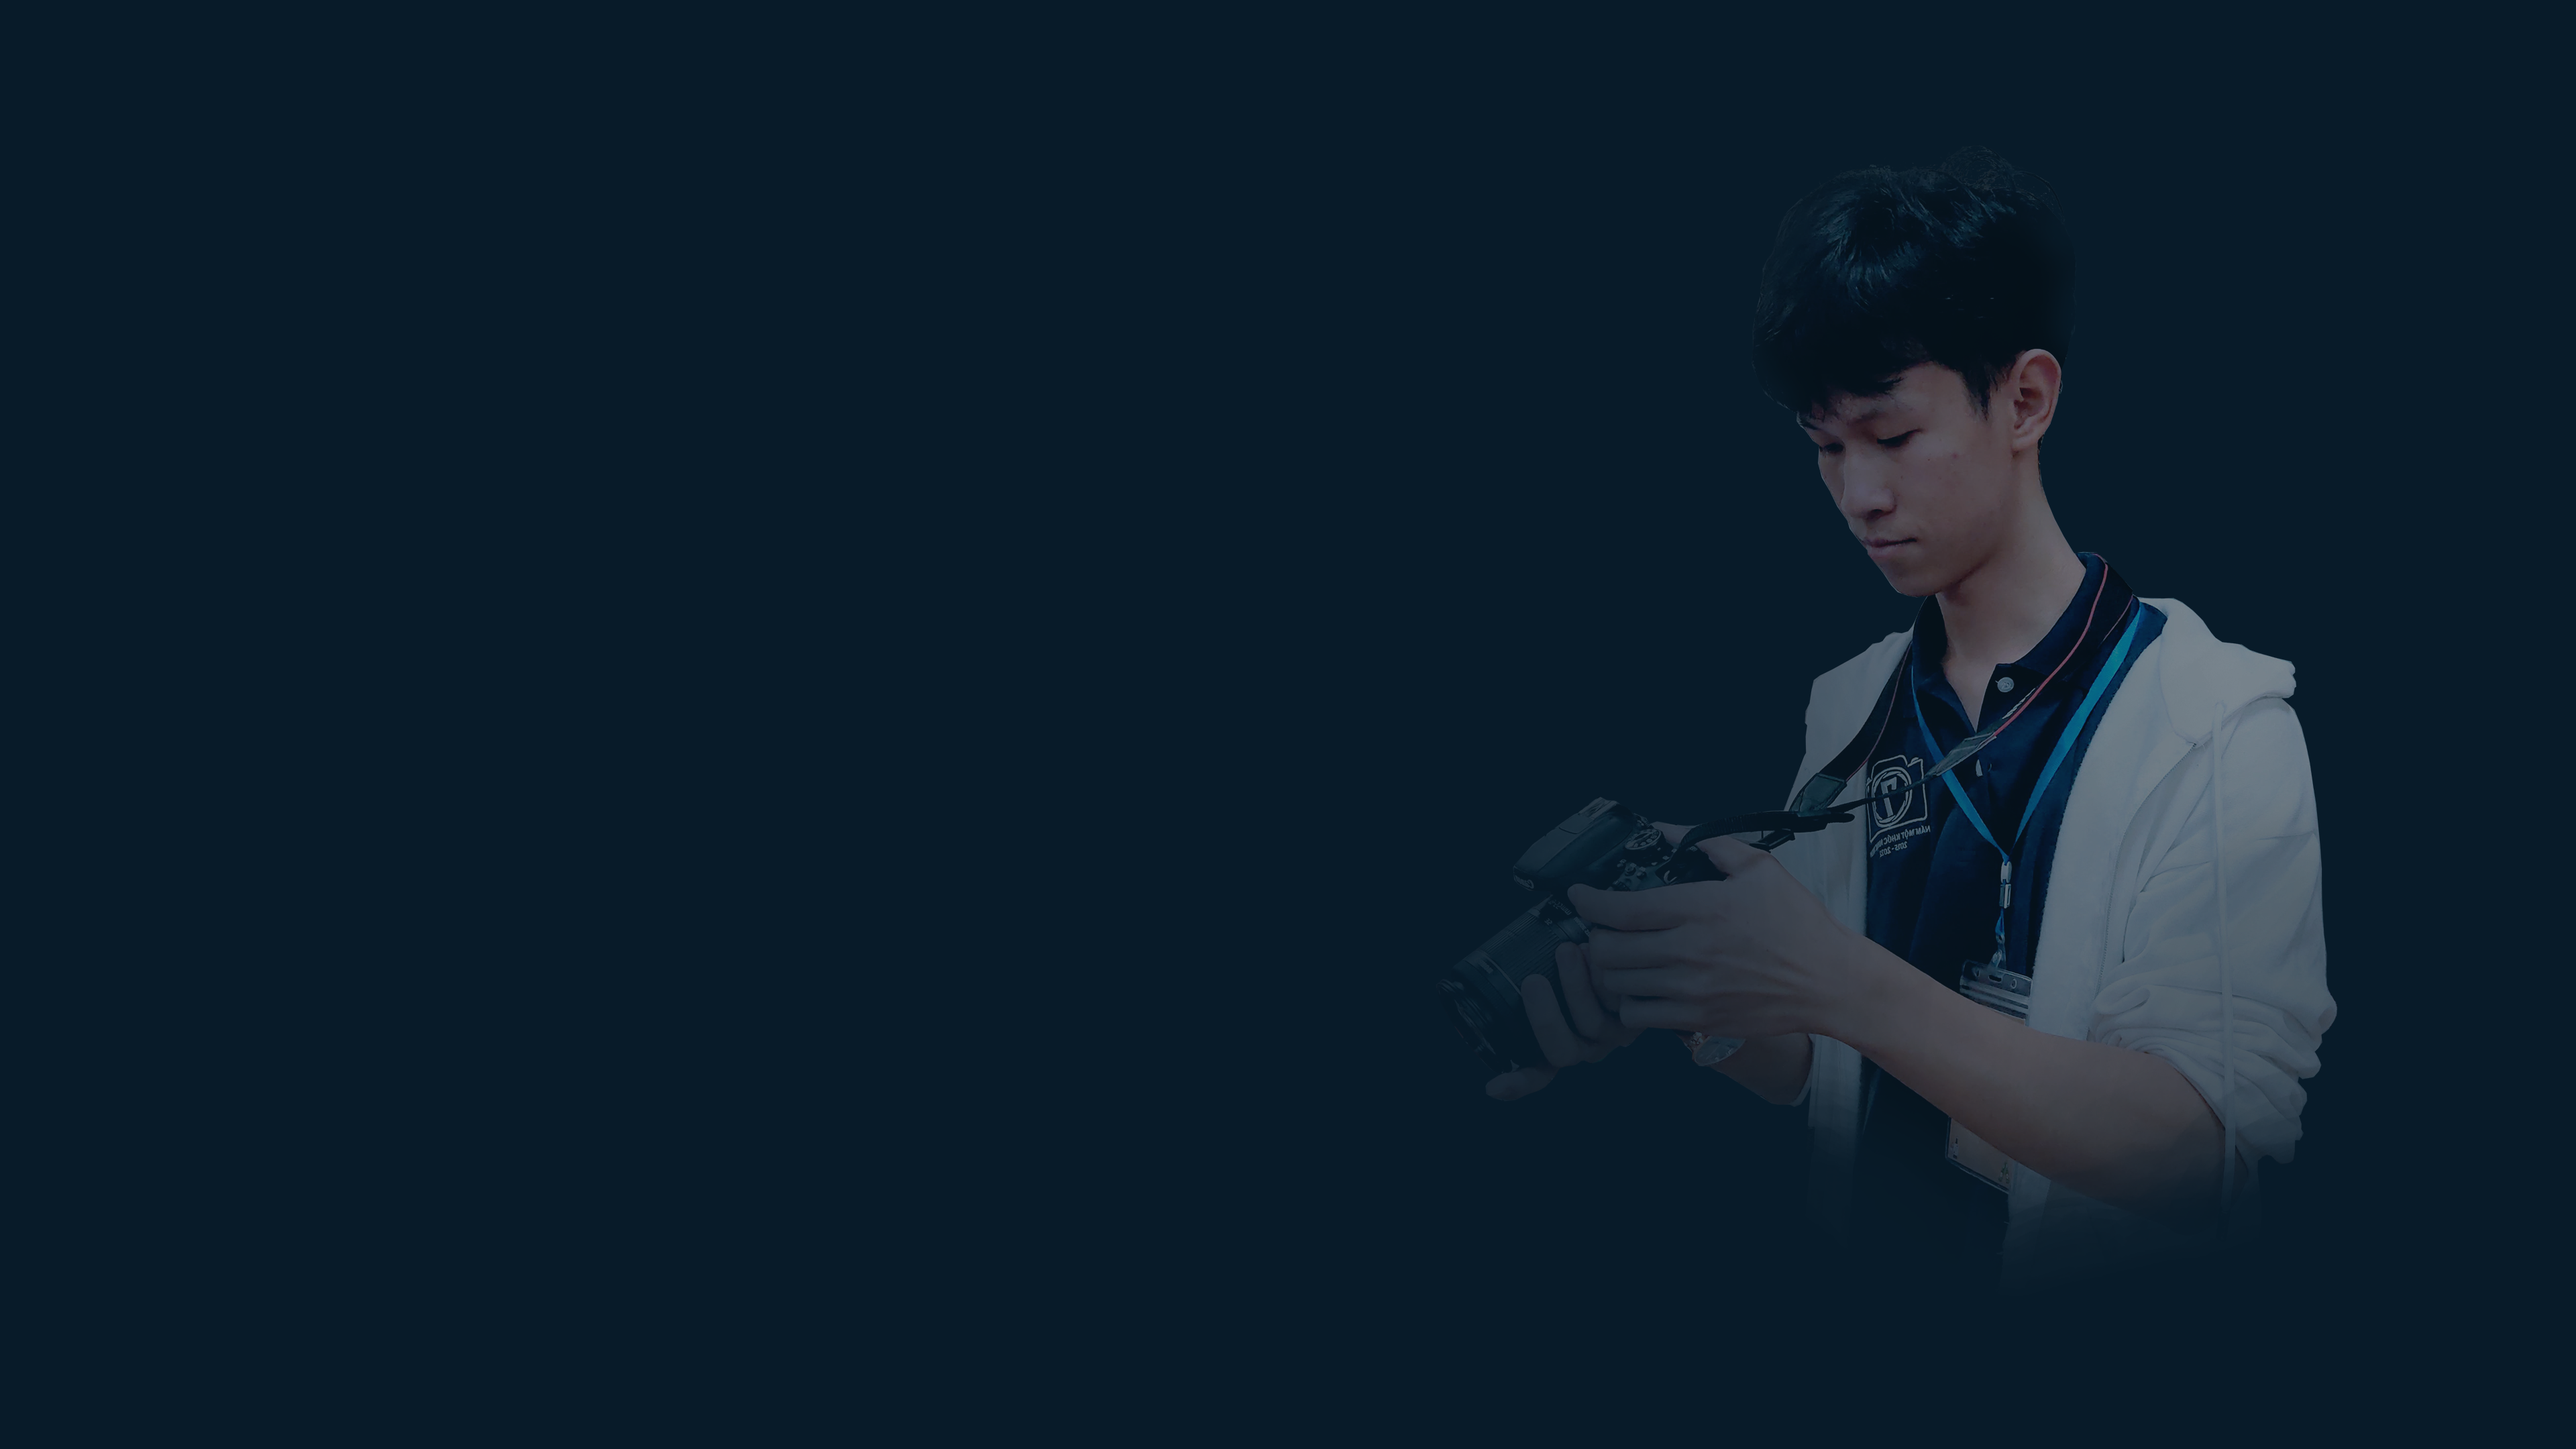
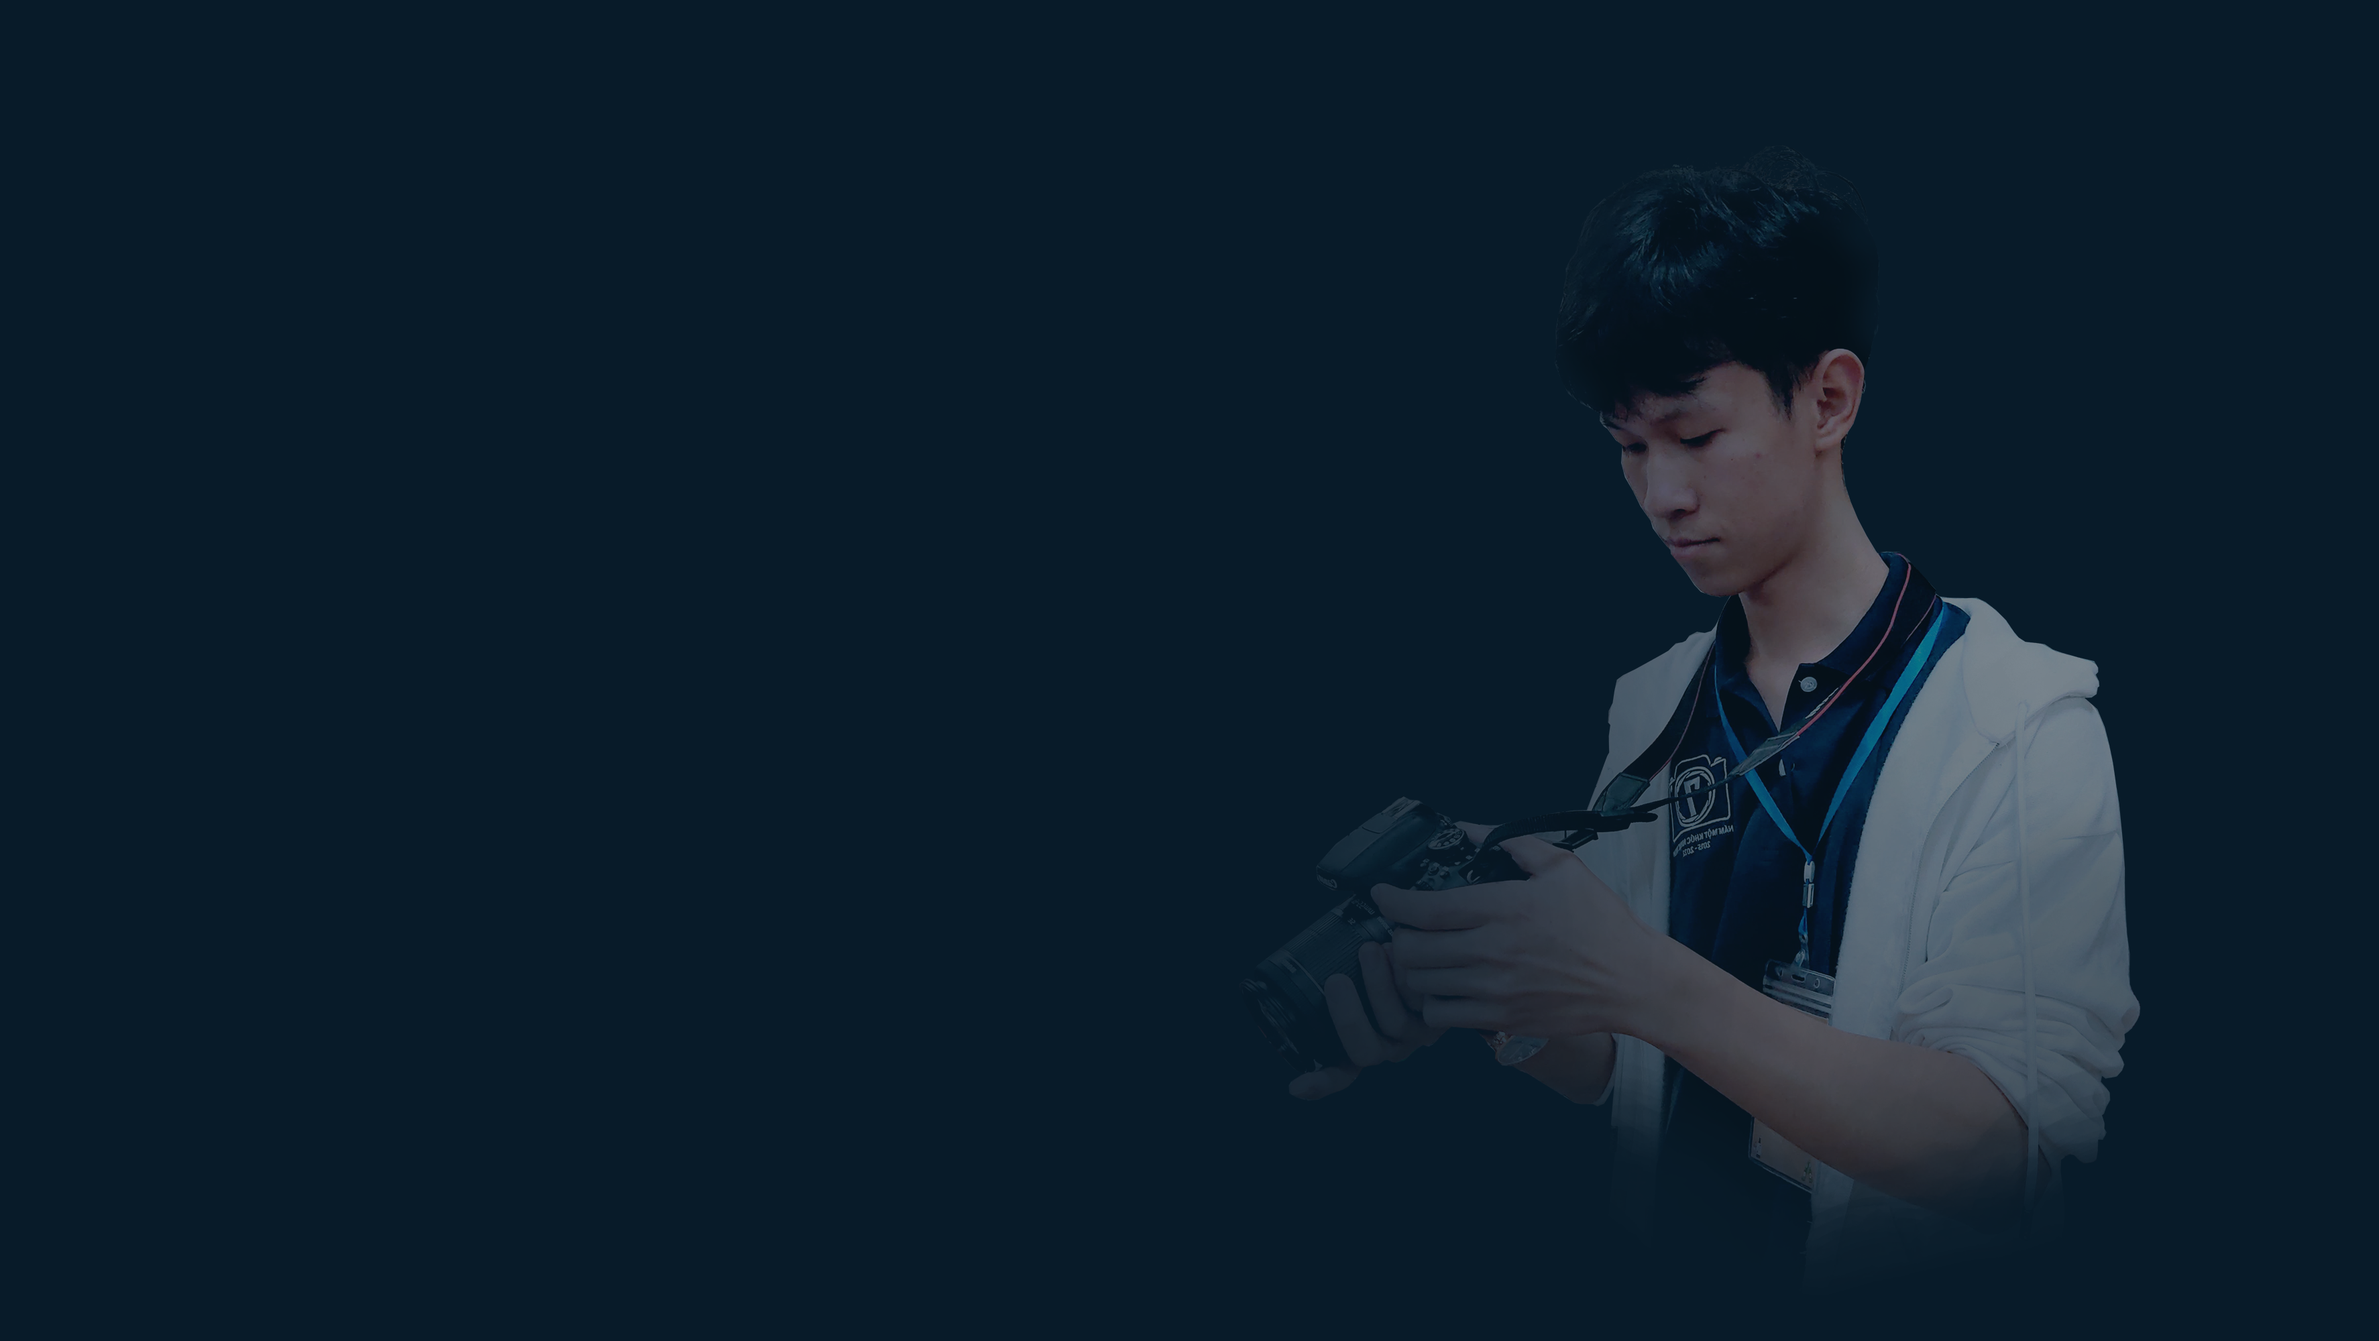
change about, education

Changed region(s): [[0.5892, 0.248, 0.9304, 0.899]]

diff --git a/src/index1.html b/src/index1.html
@@ -20,11 +20,12 @@
             <a href="#home" class="active">Home</a>
             <a href="#about">About</a>
             <a href="#education">Education</a>
-            <a href="#skills">Skills</a>
+            <a href="personal_skills.html">Skills</a>
             <a href="#contact">Contact</a>
         </nav>
     </header>
 
+    <!-- home section -->
     <section class="home" id="home">
         <div class="home-content">
             <h1>Hi, I'm <span>Dinh Truong</span></h1>
@@ -46,7 +47,120 @@
             <a href="#"><i class='bx bxl-instagram'></i></a>
             <a href="#"><i class='bx bxl-linkedin' ></i></a>
         </div>
+
+        <div class="home-imgHover"></div>
+    </section>
+
+    <!-- about section  -->
+    <section class="about" id="about">
+        <h2 class="heading">About <span>Me</span></h2>
+
+        <div class="about-img">
+            <img src="../assets/imgs/profile_bg_v3.jpg.png" alt="">
+            <span class="circle-spin"></span>
+        </div>
+
+        <div class="about-content">
+            <h3>Phan Dinh Truong</h3>
+
+            <h6 style="margin-top: 0.4rem; margin-bottom: 2.4rem; font-size: 1.7rem; font-weight: 300;">━━━ Data Engineer ━━━</h6>
+            
+            <p>Lorem ipsum data more index height consider ipsum data more index height consider 
+            ipsum data more index height consider ipsum data more index height consider ipsum data 
+            more index height consider ipsum data more index height consider ipsum data more index 
+            height consider ipsum data more index height consider ipsum data more index height consider 
+            ipsum data more. </p>
+
+            <div class="btn-box btns" style="justify-content: center; width: 100%;">
+                <a href="#about" class="btn">Read More</a>
+            </div>
+        </div>
+    </section>
+
+    <!-- education section -->
+    <section class="education" id="education">
+        <h2 class="heading">My <span>Journey</span></h2>
+
+        <div class="education-row">
+            <div class="education-column">
+                <h3 class="title">Education</h3>
+
+                <div class="education-box">
+                    <div class="education-content">
+                        <div class="content">
+                            <div class="year"><i class='bx bxs-calendar'></i>2014 - 2018</div>
+                            <h3>Le Van Thinh Secondary School</h3>
+                            <p>Lorem ipsum data more index height consider ipsum data more index height consider 
+                            ipsum data more index height consider ipsum data more index height consider ipsum data 
+                            more index height</p>
+                        </div>
+                    </div>
+
+                    <div class="education-content">
+                        <div class="content">
+                            <div class="year"><i class='bx bxs-calendar'></i>2018 - 2021</div>
+                            <h3>Gia Binh 1 High School</h3>
+                            <p>Lorem ipsum data more index height consider ipsum data more index height consider 
+                            ipsum data more index height consider ipsum data more index height consider ipsum data 
+                            more index height</p>
+                        </div>
+                    </div>
+
+                    <div class="education-content">
+                        <div class="content">
+                            <div class="year"><i class='bx bxs-calendar'></i>2021 - now</div>
+                            <h3>Hanoi University of Science and Technology</h3>
+                            <p>Lorem ipsum data more index height consider ipsum data more index height consider 
+                            ipsum data more index height consider ipsum data more index height consider ipsum data 
+                            more index height</p>
+                        </div>
+                    </div>
+                </div>
+            </div>
+
+            <div class="education-column">
+                <h3 class="title">Club Activities</h3>
+
+                <div class="education-box">
+                    <div class="education-content">
+                        <div class="content">
+                            <div class="year"><i class='bx bxs-calendar'></i>2014 - 2018</div>
+                            <h3>Former member at FAG</h3>
+                            <p>Lorem ipsum data more index height consider ipsum data more index height consider 
+                            ipsum data more index height consider ipsum data more index height consider ipsum data 
+                            more index height</p>
+                        </div>
+                    </div>
+
+                    <div class="education-content">
+                        <div class="content">
+                            <div class="year"><i class='bx bxs-calendar'></i>2018 - 2021</div>
+                            <h3>Collaborator at iCTSV</h3>
+                            <p>Lorem ipsum data more index height consider ipsum data more index height consider 
+                            ipsum data more index height consider ipsum data more index height consider ipsum data 
+                            more index height</p>
+                        </div>
+                    </div>
+
+                    <div class="education-content">
+                        <div class="content">
+                            <div class="year"><i class='bx bxs-calendar'></i>2021 - now</div>
+                            <h3>Member at 10/1985 Volunteer Group</h3>
+                            <p>Lorem ipsum data more index height consider ipsum data more index height consider 
+                            ipsum data more index height consider ipsum data more index height consider ipsum data 
+                            more index height</p>
+                        </div>
+                    </div>
+                </div>
+            </div>
+        </div>
+    </section>
+
+    <!-- skills section -->
+    <section>
+
     </section>
     
+    <script src="script.js"></script>
 </body>
 </html>

diff --git a/src/style1.css b/src/style1.css
@@ -127,3 +127,122 @@ section {
 .home-sci a:hover::before {
     width: 100%;
 }
+
+.home-imgHover {
+    position: absolute; top: 0; right: 0; width: 45%; height: 100%; background: transparent; transition: 1.5s;
+}
+
+.home-imgHover:hover {
+    background: var(--bg-color); opacity: 0.8;
+}
+
+span {
+    color: var(--main-color);
+}
+
+.about {
+    display: flex; justify-content: center; align-items: center; flex-direction: column; gap: 2rem; background: var(--second-bg-color); padding-bottom: 9rem;
+}
+
+.heading {
+    font-size: 5rem; margin-bottom: 3rem; text-align: center;
+}
+
+.about-img {
+    position: relative; width: 25rem; height: 25rem; border-radius: 50%; display: flex; justify-content: center; align-items: center;
+}
+
+.about-img img {
+    width: 90%; border-radius: 50%; border: 0.27rem solid var(--main-color);
+}
+
+.about-img .circle-spin {
+    position: absolute; top: 50%; left: 50%; transform: translate(-50%, -50%) rotate(0);
+    width: 100%; height: 100%; border-radius: 50%;
+    border-top: 0.3rem solid var(--second-bg-color);
+    border-bottom: 0.3rem solid var(--second-bg-color);
+    border-left: 0.3rem solid var(--main-color);
+    border-right: 0.3rem solid var(--main-color);
+}
+
+.about-content {
+    text-align: center;
+}
+
+.about-content h3 {
+    font-size: 2.8rem; color: var(--main-color);
+}
+
+.about-content p {
+    font-size: 1.6rem; margin: 2rem 0 3rem;
+}
+
+.btn-box .btns {
+    display: inline-block; width: 15rem;
+}
+
+.btn-box .btns a::before {
+    background: var(--second-bg-color);
+}
+
+.education {
+    display: flex; justify-content: center; align-items: center; flex-direction: column; padding-bottom: 5rem;
+    min-height: auto;
+}
+
+.education .education-row {
+    display: flex; flex-wrap: wrap; gap: 5rem;
+}
+
+.education-row .education-column {
+    flex: 1 1 40rem;
+}
+
+.education-column .title {
+    font-size: 2.5rem;
+    margin: 0 0 1.5rem 2rem;
+}
+
+.education-column .education-box {
+    border-left: .2rem solid var(--main-color);
+}
+
+.education-box .education-content {
+    position: relative; padding-left: 2rem;
+}
+
+.education-content .content {
+    position: relative; padding: 1.5rem; border: .2rem solid var(--main-color);
+    border-radius: .6rem; margin-bottom: 2rem; overflow: hidden;
+}
+
+.education-content .content::before {
+    content: '';
+    position: absolute;
+    top: 0; left: 0; width: 0; height: 100%; background: var(--second-bg-color);
+    z-index: -1; transition: 0.5s;
+}
+
+.education-content .content:hover::before {
+    width: 100%; transition: 0.5s;
+}
+
+.education-box .education-content::before {
+    content: ''; position: absolute; top: 0; width: 2rem; height: 2rem; background: var(--main-color); border-radius: 50%; left: -1.1rem;
+}
+
+.education-content .content .year {
+    font-size: 1.5rem; color: var(--main-color); padding-bottom: .5rem;
+}
+
+.education-content .content .year i {
+    padding-right: .5rem;
+}
+
+.education-content .content h3 {
+    font-size: 2rem;
+}
+
+.education-content .content p {
+    font-size: 1.6rem; padding-top: .5rem;
+}

diff --git a/src/personal_skills.html b/src/personal_skills.html
@@ -28,7 +28,7 @@
         <div class="profile__border">
           <div class="profile__perfil">
             <!-- Insert your image, according to the example size of the portfolio -->
-            <img src="../assets/imgs/dtruong.png" alt="">
+            <img src="../assets/imgs/profile_bg_v3.jpg.png" alt="">
           </div>
         </div>
 
